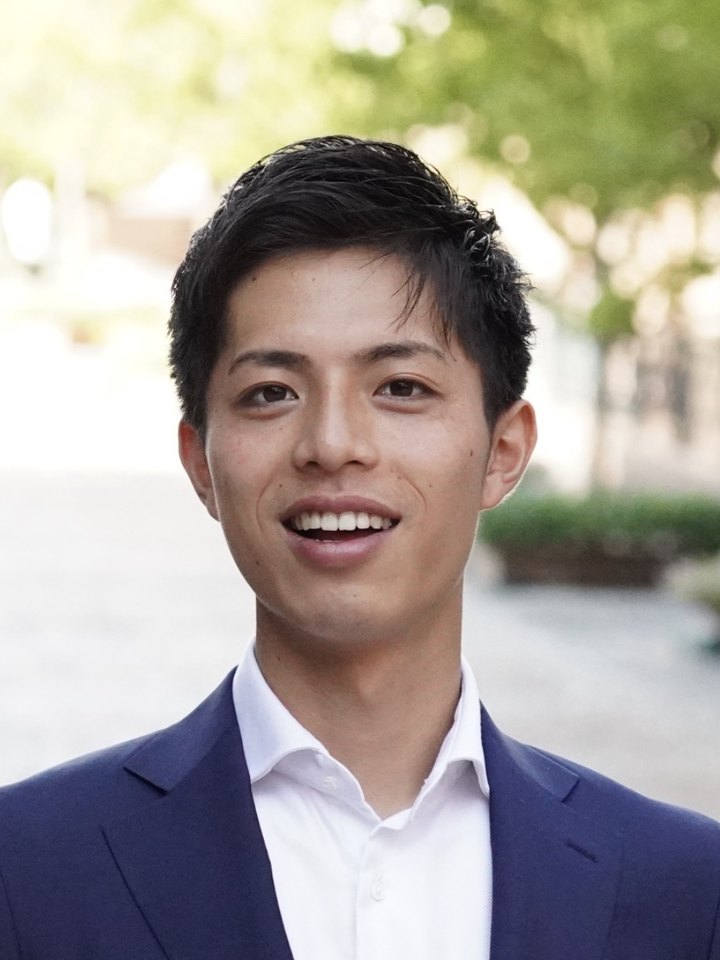
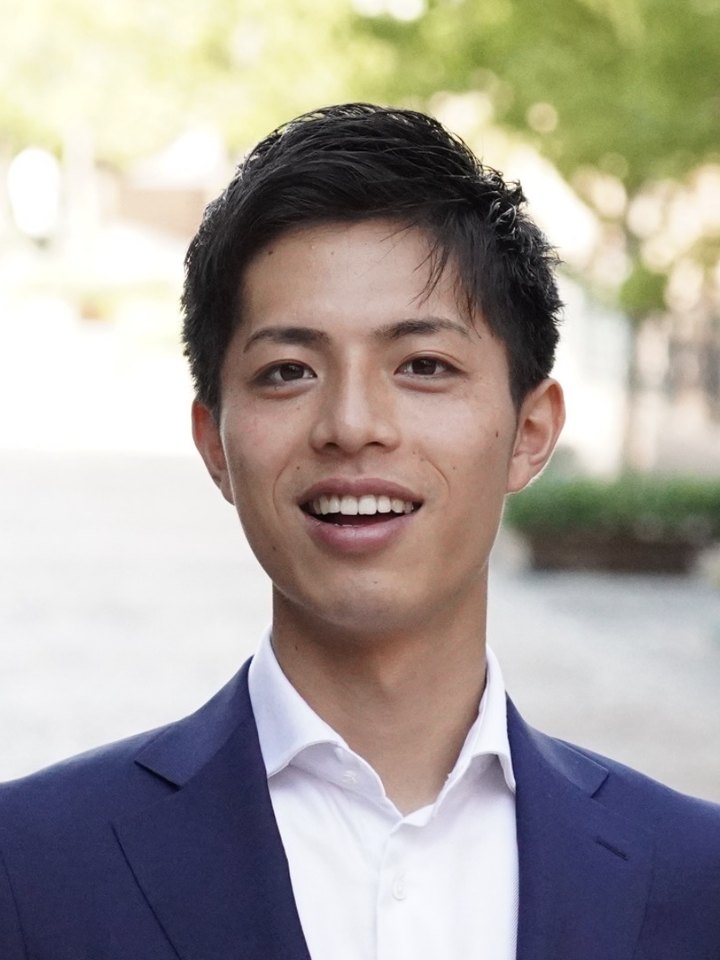
Balance team headshots: match face size & eye-line across Eda/Tanaka/Nono; shrink Nono
Re-crop the 3 member photos to consistent framing (founders matched on eye-to-chin + eye-line; Nono normalized on head height so his volume/upward pose no longer reads larger). Bump image ?v to 20260620d.

diff --git a/members.html b/members.html
@@ -3975,7 +3975,7 @@ h1, h2, h3, h4, h5, h6 { font-weight: 400; }
 
     <div class="member-grid reveal" style="grid-template-columns: repeat(2, 1fr); max-width: 800px; margin: 0 auto;">
       <article class="member-card">
-        <div class="member-photo has-img" data-initials="TE"><img src="public/images/members/eda-tomoki.jpg?v=20260620c" alt="Tomoki Eda"/><span class="corner">01 / Founder · CEO</span></div>
+        <div class="member-photo has-img" data-initials="TE"><img src="public/images/members/eda-tomoki.jpg?v=20260620d" alt="Tomoki Eda"/><span class="corner">01 / Founder · CEO</span></div>
         <div class="member-role">Founder · CEO</div>
         <h3 class="member-name">Tomoki Eda</h3>
         <div class="member-name-jp">江田 友輝</div>
@@ -3990,7 +3990,7 @@ h1, h2, h3, h4, h5, h6 { font-weight: 400; }
       </article>
 
       <article class="member-card">
-        <div class="member-photo has-img" data-initials="RT"><img src="public/images/members/tanaka.jpg?v=20260620c" alt="Rei Tanaka"/><span class="corner">02 / COO</span></div>
+        <div class="member-photo has-img" data-initials="RT"><img src="public/images/members/tanaka.jpg?v=20260620d" alt="Rei Tanaka"/><span class="corner">02 / COO</span></div>
         <div class="member-role">COO</div>
         <h3 class="member-name">Rei Tanaka</h3>
         <div class="member-name-jp">田中 伶</div>
@@ -4013,7 +4013,7 @@ h1, h2, h3, h4, h5, h6 { font-weight: 400; }
 
     <div class="member-grid reveal" style="grid-template-columns: 1fr; max-width: 360px; margin: 0 auto;">
       <article class="member-card">
-        <div class="member-photo has-img" data-initials="KN"><img src="public/images/members/nono.jpg?v=20260620c" alt="Keigo Nono"/><span class="corner">03 / Domestic · JAS</span></div>
+        <div class="member-photo has-img" data-initials="KN"><img src="public/images/members/nono.jpg?v=20260620d" alt="Keigo Nono"/><span class="corner">03 / Domestic · JAS</span></div>
         <div class="member-role">Domestic Sales · JAS Project Lead</div>
         <h3 class="member-name">Keigo Nono</h3>
         <div class="member-name-jp">野々 圭吾</div>
